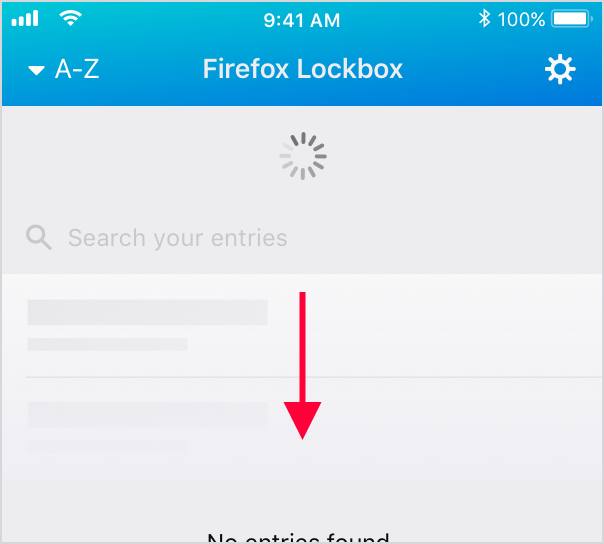
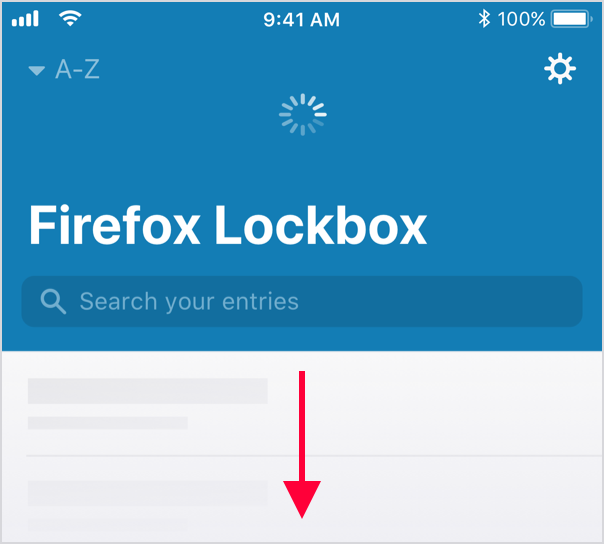
Adding new content for Android with associated images. Updating an iOS image to reflect new designs.

diff --git a/faq.md b/faq.md
@@ -49,7 +49,19 @@ Once you are signed in to your account, you can select “Sync Now” to send yo
 
 #### On Android
 
-**Coming soon!** [Sign up to be notified when the app is available on Android](https://goo.gl/forms/ZwLIfHSGLrYcM6k83).
+To begin syncing between Firefox for Android and the Firefox Lockbox app, you’ll need to sign in to your Firefox Account on Firefox. You’ll find the sign-in screen under **Settings** in the main menu.
+
+<div class="image-grid">
+  <img src="/assets/images/faq/sync-android-1.png" alt="Enable Sync on Android" />
+  <img src="/assets/images/faq/sync-android-2.png" alt="Enable Sync on Android" />
+</div>
+
+Once you are signed in to your account, you can select “Sync Now” to send your saved logins to Firefox Lockbox. If you are already signed in to your account, ensure the **Logins**Firefox  item within Sync Settings is checked in order to sync your logins to Firefox Lockbox.
+
+<div class="image-grid">
+  <img src="/assets/images/faq/sync-android-3.png" alt="Enable Sync on Android" />
+  <img src="/assets/images/faq/sync-android-4.png" alt="Enable Sync on Android" />
+</div>
 
 <a id="how-do-i-create-new-entries">
 ### How do I create new entries?
@@ -83,7 +95,7 @@ First, open Firefox for desktop and open the main menu to see if you are signed 
 
 <div class="image-grid">
   <img src="/assets/images/faq/manual-sync-desktop.png" alt="Manual Sync on Desktop" />
-  <img src="/assets/images/faq/manual-sync-refresh.png" alt="Pull to Refresh in Lockbox" />
+  <img src="/assets/images/faq/manual-sync-refresh.png" alt="Pull to Refresh in Firefox Lockbox for iOS" />
 </div>
 
 #### On iOS
@@ -92,12 +104,17 @@ First, open the Firefox for iOS main menu to see if you are signed in. Once you 
 
 <div class="image-grid">
   <img src="/assets/images/faq/manual-sync-ios.png" alt="Manual Sync on iOS" />
-  <img src="/assets/images/faq/manual-sync-refresh.png" alt="Pull to Refresh in Firefox Lockbox" />
+  <img src="/assets/images/faq/manual-sync-refresh.png" alt="Pull to Refresh in Firefox Lockbox for iOS" />
 </div>
 
 #### On Android
 
-**Coming soon!** [Sign up to be notified when the app is available on Android](https://goo.gl/forms/ZwLIfHSGLrYcM6k83).
+First, open the Firefox for Android main menu to see if you are signed in. Once you are signed in, select “Sync Now” under your display name. Now, open the Firefox Lockbox mobile app and pull down on the list of logins to refresh the list. If you don’t see your logins in Firefox Lockbox, wait a few minutes and refresh again.
+
+<div class="image-grid">
+  <img src="/assets/images/faq/manual-sync-android.png" alt="Manual Sync on Android" />
+  <img src="/assets/images/faq/manual-sync-refresh-android.png" alt="Pull to Refresh in Firefox Lockbox for Android" />
+</div>
 
 <a id="how-do-i-set-up-autofill">
 ### How do I set up AutoFill?
@@ -107,14 +124,14 @@ First, open the Firefox for iOS main menu to see if you are signed in. Once you 
 If you just downloaded Firefox Lockbox, you’ll start with a screen which includes “Set Up Autofill”, which takes you directly to your device settings.
 
 <div class="image-grid">
-  <img src="/assets/images/faq/autofill-onboarding.png" alt="AutoFill Onboarding" />
-  <img src="/assets/images/faq/autofill-settings.png" alt="Settings - AutoFill Passwords" />
+  <img src="/assets/images/faq/autofill-onboarding.png" alt="AutoFill Onboarding on iOS" />
+  <img src="/assets/images/faq/autofill-settings.png" alt="Settings - AutoFill Passwords on iOS" />
 </div>
 
 Here you can select Firefox Lockbox to autofill logins for you. You also want to make sure that “AutoFill Passwords” is green and toggled on.
 
 <div class="image-grid">
-  <img src="/assets/images/faq/autofill-password-settings.png" alt="Settings - Passwords and Accounts" />
+  <img src="/assets/images/faq/autofill-password-settings.png" alt="Settings - Passwords and Accounts on iOS" />
   <img src="/assets/images/faq/autofill-signin.png" alt="Settings - Sign in Required" />
 </div>
 
@@ -126,4 +143,16 @@ Your setup is now complete. You can now start using your saved logins in Lockbox
 
 #### On Android
 
-**Coming soon!** [Sign up to be notified when the app is available on Android](https://goo.gl/forms/ZwLIfHSGLrYcM6k83).
+If you just downloaded Firefox Lockbox, you’ll start with a screen which includes “Set Up Autofill,” which takes you directly to Autofill service settings. Choose Firefox Lockbox from the list. 
+
+<div class="image-grid">
+  <img src="/assets/images/faq/autofill-onboarding-android.png" alt="Autofill Onboarding on Android" />
+  <img src="/assets/images/faq/autofill-settings-android.png" alt="Settings - Autofill on Android" />
+</div>
+
+If you skipped this step during set-up, you can go to the Firefox Lockbox settings and turn on Autofill. You can also update this from your device settings: Go to Settings, search for “Autofill” or go to “Languages & input” and select “Autofill service.” Then, choose Firefox Lockbox from the list.
+
+<div class="image-grid">
+  <img src="/assets/images/faq/system-settings-android.png" alt="Settings - System on Android" />
+  <img src="/assets/images/faq/input-settings-android.png" alt="Settings - Languages and Input on Android" />
+</div>
